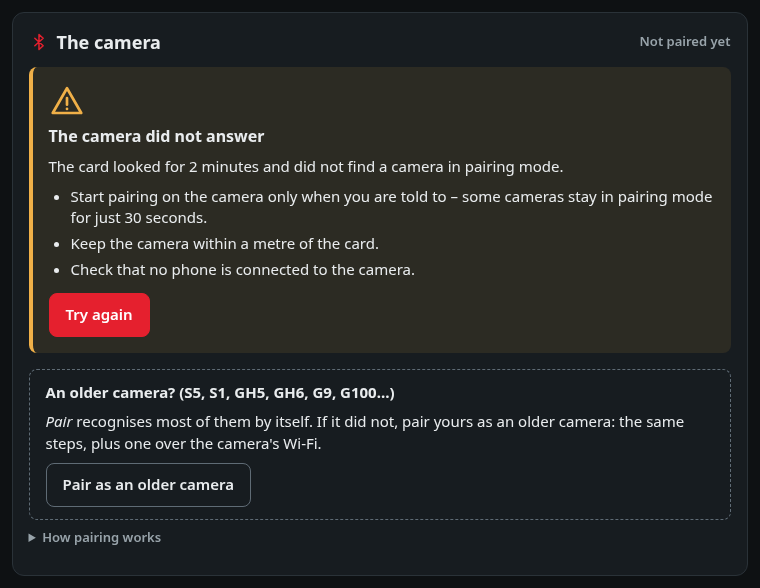
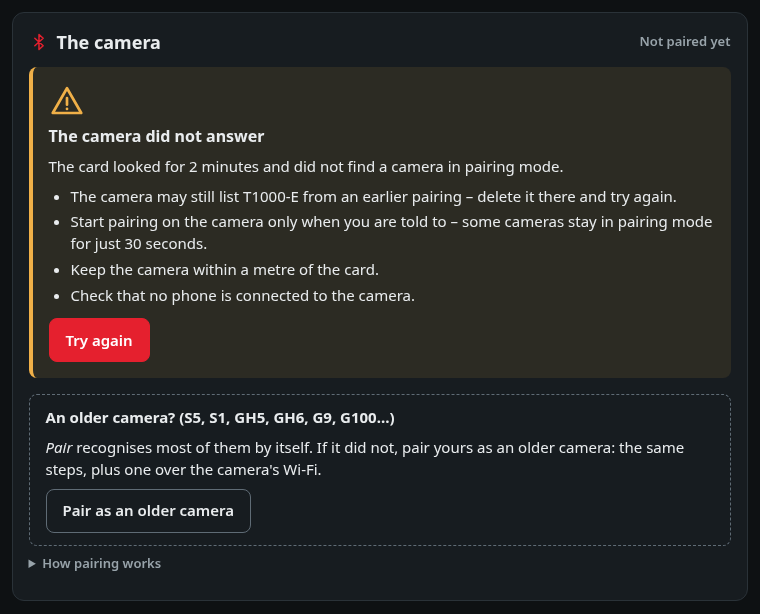
page: a pairing that did not finish on a paired card says so
The card saves a pairing only when the camera takes the card (the older
dialect: its 01 after the Wi-Fi step); a cancelled or failed pairing
leaves the camera paired before, and the link goes back to it. The page
showed a cancel on such a card as the green "Paired with your camera",
which read as the new pairing. Now a cancelled pairing on a card that
keeps its camera shows the screen of a failed one, titled "Pairing
cancelled", and on that screen a card that keeps its camera gets
"Your camera stays paired as before." with Pair again (Prepare) and
Keep the current camera instead of Try again. An unpaired card goes
back to Prepare after a cancel, as before.

A camera that still lists T1000-E from an earlier pairing does not take
the card again, and its refusal is not told apart from other failures:
the advice to delete it there is the first tip, and the tips show for
every failure the camera may be why (also "every attempt failed").

Seen red: the screen choice, the failure texts, the paired card's
failed and cancelled screens, and the app's Wi-Fi step cancelled on a
paired card (it showed done).

Removed: the screen variants "no-camera" and "other" (the tips follow
the result), failedText()'s "older" (now "camera", as it also brings the
tips), and the T1000-E advice in the "failed" text (now the first tip).

diff --git a/docs/page.js b/docs/page.js
@@ -124,7 +124,8 @@ const WIFI_WAIT_TEXT = "Waiting for this computer to join\u2026 the app continue
 // the last pairing the page followed ended (the card's pair_result, or "wifi-given-up"), null for none.
 // pairAgain: Pair again was chosen on a paired card. introducing: an older camera's introduction the page
 // saw start has not reached the Wi-Fi step yet (the card is in waiting_wifi for all of it).
-// { screen, variant }: camera "gps", "search" or "pause"; failed "no-camera" or "other".
+// { screen, variant }: camera "gps", "search" or "pause". A cancelled pairing shows as failed when the card keeps
+// its camera: not as done, which would read as the new pairing.
 // What the page knows of one pairing (startPage()): a new object when a pairing starts and when the card goes.
 //   kind: what Try again repeats, "pair" or "older" (Pair as an older camera);
 //   watching: the card is pairing, or was asked to: how it ends is shown;
@@ -154,8 +155,9 @@ function pairingScreen(state, { ended = null, pairAgain = false, introducing = f
     default: return { screen: "connect", variant: null }; // connecting, or a phase of a newer gpxcam
   }
   if (ended === "paired") return { screen: "done", variant: null };
-  if (ended === "no_camera" || ended === "not_in_pairing_mode") return { screen: "failed", variant: "no-camera" };
-  if (ended !== null && ended !== "none" && ended !== "cancelled") return { screen: "failed", variant: "other" };
+  if (ended !== null && ended !== "none" && (ended !== "cancelled" || state.paired)) {
+    return { screen: "failed", variant: null };
+  }
   return { screen: state.paired && !pairAgain ? "done" : "prepare", variant: null };
 }
 
@@ -270,31 +272,32 @@ function gpsCheck(state) {
   return { done: false, detail: `Waiting for a fix \u2013 ${satellites} so far.` };
 }
 
-// Screen 6: { title, text, older } for a pairing that ended without a camera; older: the box that offers
-// pairing as with an older camera goes with it. result: the card's pair_result, or "wifi-given-up";
-// reason: the card's own words when it gave up (pairingEvent() gaveUp).
+// Screen 6: { title, text, camera } for a pairing that ended without a new camera; camera: the camera may be
+// why, so the tips and the box that offers pairing as with an older camera go with it. result: the card's
+// pair_result, or "wifi-given-up"; reason: the card's own words when it gave up (pairingEvent() gaveUp).
 function failedText(result, reason = null) {
   switch (result) {
     case "no_camera": return { title: "The camera did not answer", text: `The card looked for ` +
-      `${minutesText(PAIR_SEARCH_MS)} and did not find a camera in pairing mode.`, older: true };
+      `${minutesText(PAIR_SEARCH_MS)} and did not find a camera in pairing mode.`, camera: true };
     case "not_in_pairing_mode": return { title: "The camera did not answer", text: "The card saw the camera, " +
-      `but not in pairing mode, for ${minutesText(PAIR_SEARCH_MS)}.`, older: true };
+      `but not in pairing mode, for ${minutesText(PAIR_SEARCH_MS)}.`, camera: true };
     case "failed":
       if (reason !== null && reason.startsWith("no connection to the camera")) {
         return { title: "Pairing did not work", text: "The card could not connect to the camera: the connection " +
-          "never came up.", older: true };
+          "never came up.", camera: true };
       }
-      return { title: "Pairing did not work", text: `The camera did not take the card in ${PAIR_ATTEMPTS} attempts. ` +
-        "If it lists T1000\u2011E from an earlier pairing, delete it there.", older: true };
-    case "no_gps_fix": return { title: "No GPS time", text: `The card got no GPS time within ${minutesText(PAIR_FIX_WAIT_MS)}. ` +
-      "Put it outdoors or by a window.", older: false };
+      return { title: "Pairing did not work", text: `The camera did not take the card in ${PAIR_ATTEMPTS} attempts.`,
+        camera: true };
+    case "cancelled": return { title: "Pairing cancelled", text: "", camera: false };
+    case "no_gps_fix": return { title: "No GPS time", text: "The card got no GPS time within " +
+      `${minutesText(PAIR_FIX_WAIT_MS)}. Put it outdoors or by a window.`, camera: false };
     case "not_saved": return { title: "Pairing not saved", text: "The camera took the card, but the card could " +
-      "not save the pairing.", older: false };
+      "not save the pairing.", camera: false };
     case "not_possible": return { title: "The card cannot pair now", text: "Its Bluetooth or its storage is not " +
-      "ready.", older: false };
+      "ready.", camera: false };
     case "wifi-given-up": return { title: "The Wi-Fi step was not done", text: "The card no longer waits for the " +
-      "Wi-Fi step.", older: false };
-    default: return { title: "Pairing did not work", text: `The card ended the pairing: ${result}.`, older: false };
+      "Wi-Fi step.", camera: false };
+    default: return { title: "Pairing did not work", text: `The card ended the pairing: ${result}.`, camera: false };
   }
 }
 
@@ -384,6 +387,8 @@ function startPage() {
     wifiBrowser: element("wifi-browser"),
     wifiRetry: element("wifi-retry"),
     pairAgain: element("pair-again"),
+    failedAgain: element("failed-again"),
+    failedKeep: element("failed-keep"),
     forget: element("forget"),
     forgetConfirm: element("forget-confirm"),
     forgetYes: element("forget-yes"),
@@ -483,8 +488,9 @@ function startPage() {
     for (const choice of updatesChoices.values()) choice.disabled = locked || updatesSetting === null;
     const canPair = !locked && lastState !== null && !pairingUnderWay() && !storageDamaged();
     for (const button of [ui.pairStart, ui.pairRetry, ui.pairOlder]) button.disabled = !canPair;
-    ui.pairAgain.disabled = locked || pairingUnderWay() || storageDamaged();
-    ui.pairKeep.disabled = locked;
+    const canPairAgain = !locked && !pairingUnderWay() && !storageDamaged();
+    for (const button of [ui.pairAgain, ui.failedAgain]) button.disabled = !canPairAgain;
+    for (const button of [ui.pairKeep, ui.failedKeep]) button.disabled = locked;
     ui.wifiRetry.disabled = locked;
     ui.pairStop.disabled = card === null || (busy && !pairing.running); // it also stops a Wi-Fi step
     for (const button of [ui.forget, ui.forgetYes]) button.disabled = locked || storageDamaged();
@@ -566,13 +572,18 @@ function startPage() {
     return inApp ? [WIFI_WAIT_TEXT, "warn"] : ["", ""];
   };
 
-  const showFailed = (variant) => {
+  const showFailed = () => {
     const failed = failedText(pairing.ended, pairing.endedReason);
     ui.failedTitle.textContent = failed.title;
     ui.failedText.textContent = failed.text;
-    ui.failedPaired.classList.toggle("hidden", !lastState.paired); // a failed pairing keeps the camera paired
-    ui.failedTips.classList.toggle("hidden", variant !== "no-camera");
-    ui.olderBox.classList.toggle("hidden", !failed.older || !canPairOlder(lastState.version));
+    ui.failedText.classList.toggle("hidden", failed.text === "");
+    // A pairing that did not finish keeps the camera paired before: pair again from Prepare, or keep it.
+    ui.failedPaired.classList.toggle("hidden", !lastState.paired);
+    ui.pairRetry.classList.toggle("hidden", lastState.paired);
+    ui.failedAgain.classList.toggle("hidden", !lastState.paired);
+    ui.failedKeep.classList.toggle("hidden", !lastState.paired);
+    ui.failedTips.classList.toggle("hidden", !failed.camera);
+    ui.olderBox.classList.toggle("hidden", !failed.camera || !canPairOlder(lastState.version));
     ui.pairOlder.classList.toggle("hidden", !inApp);
     ui.olderBrowser.classList.toggle("hidden", inApp);
   };
@@ -606,7 +617,7 @@ function startPage() {
     else if (screen === "camera") status = showCamera(variant);
     else if (screen === "connect") status = ["", ""];
     else if (screen === "wifi") status = showWifiStep();
-    else if (screen === "failed") showFailed(variant);
+    else if (screen === "failed") showFailed();
     if (screen === "connect") showStages();
     if (screen !== "done") ui.forgetConfirm.classList.add("hidden");
     runCountdown(screen === "camera" && variant === "search" && pairing.search !== null);
@@ -657,7 +668,7 @@ function startPage() {
     if (!pairing.watching) return;
     // After a failed Wi-Fi step the card waits up to 300 s for another; then it gives up.
     const ended = pairing.wifiRetry && state.pairResult !== "paired" ? "wifi-given-up" : state.pairResult;
-    const note = ended === "cancelled" ? ["Pairing cancelled.", ""] : null;
+    const note = ended === "cancelled" && !state.paired ? ["Pairing cancelled.", ""] : null; // else its screen says it
     pairing = { ...newPairing(pairing.kind), ended, endedReason: pairing.endedReason, note };
   };
 
@@ -1274,14 +1285,17 @@ function startPage() {
   ui.pairStart.addEventListener("click", startPair);
   ui.pairRetry.addEventListener("click", () => (pairing.kind === "older" ? pairOlder() : startPair()));
   ui.pairOlder.addEventListener("click", pairOlder);
-  ui.pairAgain.addEventListener("click", () => {
+  // On a card that keeps its camera: Prepare for another pairing, or the camera's screen again.
+  const prepareAgain = () => {
     pairing = { ...newPairing(), pairAgain: true };
     showPairing();
-  });
-  ui.pairKeep.addEventListener("click", () => {
-    pairing.pairAgain = false;
+  };
+  const keepCamera = () => {
+    pairing = newPairing();
     showPairing();
-  });
+  };
+  for (const button of [ui.pairAgain, ui.failedAgain]) button.addEventListener("click", prepareAgain);
+  for (const button of [ui.pairKeep, ui.failedKeep]) button.addEventListener("click", keepCamera);
   ui.pairStop.addEventListener("click", () => (pairing.running ? cancelOlder() : cancelPairing()));
   ui.wifiRetry.addEventListener("click", resumeOlder);
   ui.forget.addEventListener("click", () => ui.forgetConfirm.classList.remove("hidden"));

diff --git a/docs/index.html b/docs/index.html
@@ -235,12 +235,18 @@
             <p id="failed-text"></p>
             <p id="failed-paired" class="hidden">Your camera stays paired as before.</p>
             <ul id="failed-tips" class="tips">
+              <li>The camera may still list T1000&#8209;E from an earlier pairing &ndash; delete it there and try
+                  again.</li>
               <li>Start pairing on the camera only when you are told to &ndash; some cameras stay in pairing mode
                   for just 30 seconds.</li>
               <li>Keep the camera within a metre of the card.</li>
               <li>Check that no phone is connected to the camera.</li>
             </ul>
-            <div class="row"><button id="pair-retry" type="button">Try again</button></div>
+            <div class="row">
+              <button id="pair-retry" type="button">Try again</button>
+              <button id="failed-again" type="button" class="hidden">Pair again</button>
+              <button id="failed-keep" type="button" class="secondary hidden">Keep the current camera</button>
+            </div>
           </div>
           <div id="older-box" class="older-box">
             <h3>An older camera? (S5, S1, GH5, GH6, G9, G100&hellip;)</h3>

diff --git a/app/README.md b/app/README.md
@@ -39,7 +39,7 @@ phone.*
 
 *Paired.*
 
-![A pairing that found no camera: "The camera did not answer", "The card looked for 2 minutes and did not find a camera in pairing mode.", three tips and Try again; below it "An older camera? (S5, S1, GH5, GH6, G9, G100…)" with Pair as an older camera](../docs/images/app-pair-failed.png)
+![A pairing that found no camera: "The camera did not answer", "The card looked for 2 minutes and did not find a camera in pairing mode.", four tips (the first: the camera may still list T1000-E from an earlier pairing) and Try again; below it "An older camera? (S5, S1, GH5, GH6, G9, G100…)" with Pair as an older camera](../docs/images/app-pair-failed.png)
 
 *No camera found: why, what to check, and the only place that offers pairing as with an older camera.*
 
